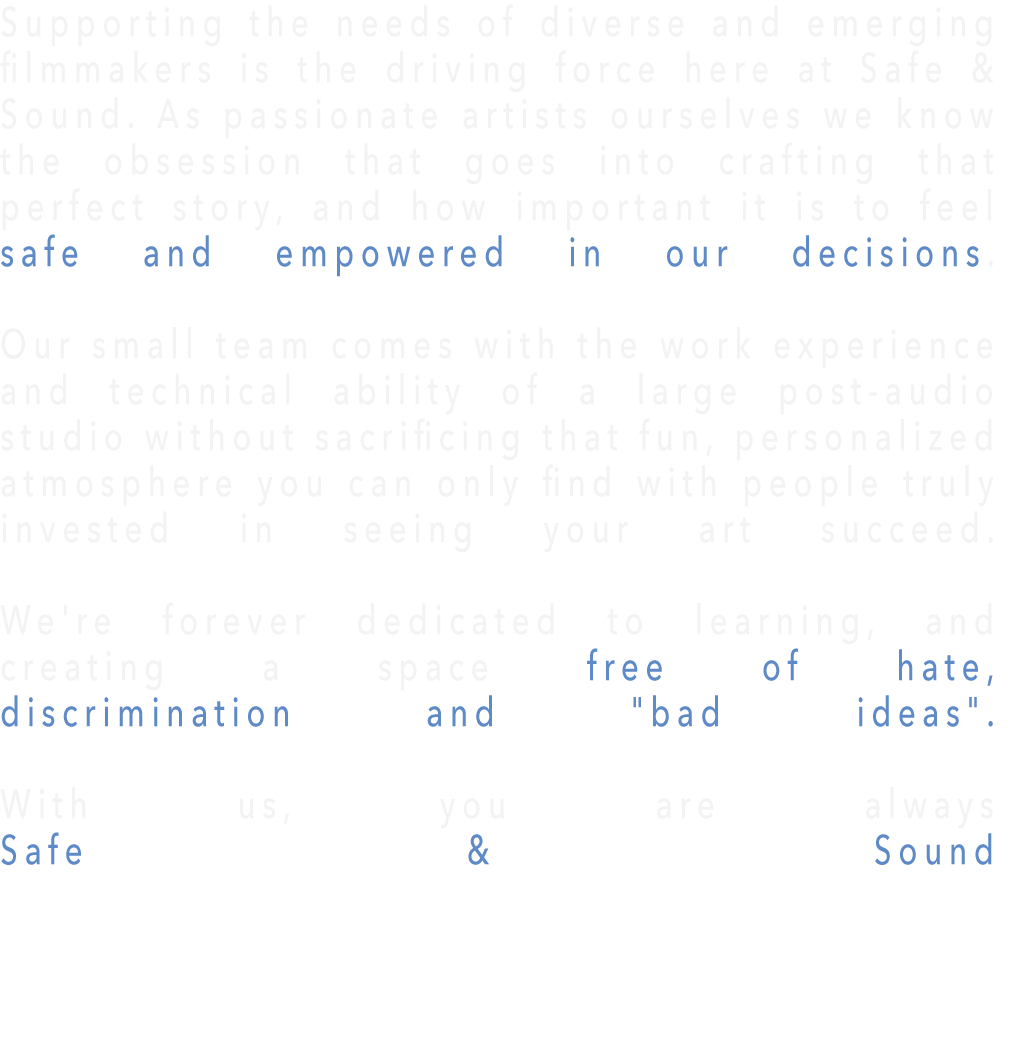
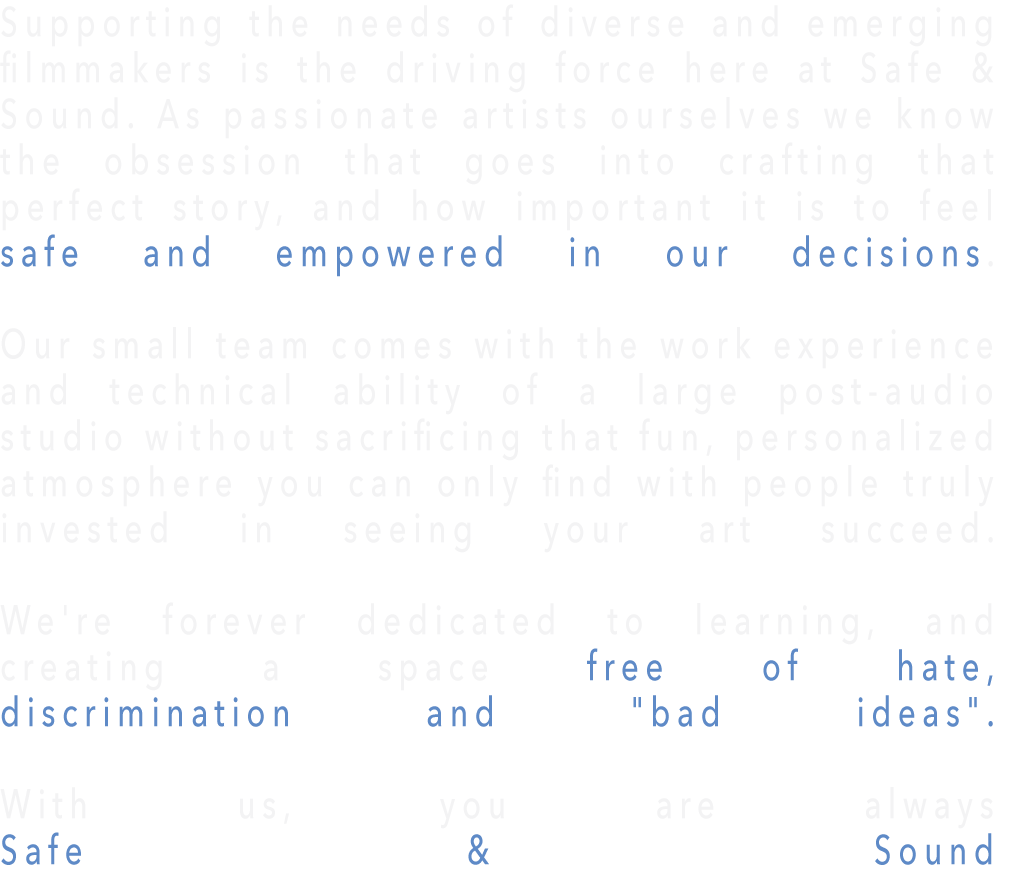
Improving Team column height

diff --git a/src/components/home/TheTeam.jsx b/src/components/home/TheTeam.jsx
@@ -24,16 +24,8 @@ export default function TheTeam() {
             const img = img_paths.find((x) => x.includes(project.pic));
             project.pic = img;
         });
-        setLeftColumn(
-            teamData
-                .filter((x) => x.column === 1)
-                .sort((a, b) => a.order - b.order),
-        );
-        setRightColumn(
-            teamData
-                .filter((x) => x.column === 2)
-                .sort((a, b) => a.order - b.order),
-        );
+        setLeftColumn(teamData.filter((x) => x.column === 1).sort((a, b) => a.order - b.order));
+        setRightColumn(teamData.filter((x) => x.column === 2).sort((a, b) => a.order - b.order));
     }, []);
 
     const onHeadshotClick = (_val) => {
@@ -42,27 +34,17 @@ export default function TheTeam() {
     };
 
     return (
-        <section
-            id="the-team"
-            className="flex w-full flex-col items-center justify-center gap-10 px-5 pt-10 pb-15 align-middle md:px-16 xl:px-5"
-        >
-            <h2 className="text-secondary w-full py-0 text-center text-4xl font-bold tracking-widest uppercase md:py-10">
-                who we are
-            </h2>
+        <section id="the-team" className="flex w-full flex-col items-center justify-center gap-10 px-5 pt-10 pb-15 align-middle md:px-16 xl:px-5">
+            <h2 className="text-secondary w-full py-0 text-center text-4xl font-bold tracking-widest uppercase md:py-10">who we are</h2>
 
             <dialog ref={modal} className="modal">
                 <TeamModal currentTeam={currentTeam} />
             </dialog>
 
-            <div className="flex w-full flex-col justify-center gap-5 lg:flex-row">
-                <div className="grid w-auto grow grid-flow-col gap-3 md:gap-2 lg:h-fit lg:max-w-[10%] lg:grid-flow-row lg:gap-2 xl:gap-5">
+            <div className="flex h-fit w-full flex-col justify-center gap-5 lg:flex-row">
+                <div className="grid w-auto grow grid-flow-col gap-3 md:gap-2 lg:max-w-[10%] lg:grid-flow-row lg:gap-2 xl:gap-5">
                     {leftColumn.map((val, index) => (
-                        <TeamHeadshot
-                            key={index}
-                            pic={val.pic}
-                            onClick={() => onHeadshotClick(val)}
-                            alt={val.name}
-                        />
+                        <TeamHeadshot key={index} pic={val.pic} onClick={() => onHeadshotClick(val)} alt={val.name} />
                     ))}
                 </div>
                 <div className="hidden h-fit w-full lg:block">
@@ -73,14 +55,9 @@ export default function TheTeam() {
                         alt="Supporting the needs of diverse and emerging filmmakers is the driving force here at Safe & Sound. AS passionate artists ourselves we know the obsession that goes into crafting that perfect story, and how important it is to feel safe and empowered in out decisions. Our small team comes with the work experience and technical ability of a large post-studio studio without sacrificint that fun, personalized atmosphere you can only find with people truly invested in seeing your art succeed. We're forever dedicated to learning and creating a space free of hate discrimination and 'bar ideas'. With us, you are always Safe & Sound."
                     />
                 </div>
-                <div className="grid w-auto grow grid-flow-col gap-3 md:gap-2 lg:h-fit lg:max-w-[10%] lg:grid-flow-row lg:gap-2 xl:gap-5">
+                <div className="grid w-auto grow grid-flow-col gap-3 md:gap-2 lg:max-w-[10%] lg:grid-flow-row lg:gap-2 xl:gap-5">
                     {rightColumn.map((val, index) => (
-                        <TeamHeadshot
-                            key={index}
-                            pic={val.pic}
-                            onClick={() => onHeadshotClick(val)}
-                            alt={val.name}
-                        />
+                        <TeamHeadshot key={index} pic={val.pic} onClick={() => onHeadshotClick(val)} alt={val.name} />
                     ))}
                 </div>
                 <div className="h-fit w-full shrink lg:hidden">
@@ -134,24 +111,14 @@ function TeamModal({ currentTeam }) {
             <div className="modal-box max-w-full bg-[#1a1a1a] select-none max-md:p-3 lg:max-w-6xl">
                 <div className="gap-3 px-3 py-3 md:gap-0 md:px-0 md:py-0">
                     <form method="dialog">
-                        <button
-                            className="btn btn-circle btn-ghost btn-sm md:btn-md absolute top-2 right-2"
-                            name="Close team card"
-                        >
-                            <IoClose
-                                className="size-3/4 md:size-3/4"
-                                strokeWidth={20}
-                            />
+                        <button className="btn btn-circle btn-ghost btn-sm md:btn-md absolute top-2 right-2" name="Close team card">
+                            <IoClose className="size-3/4 md:size-3/4" strokeWidth={20} />
                         </button>
                     </form>
                     <div className="flex flex-col items-center justify-center gap-2 align-middle md:gap-3">
                         <div className="w-full md:w-4/5">
-                            <h3 className="text-primary text-xl font-bold tracking-widest uppercase md:text-4xl">
-                                {name}
-                            </h3>
-                            <p className="text-secondary text-sm font-semibold tracking-widest uppercase md:text-xl">
-                                {role}
-                            </p>
+                            <h3 className="text-primary text-xl font-bold tracking-widest uppercase md:text-4xl">{name}</h3>
+                            <p className="text-secondary text-sm font-semibold tracking-widest uppercase md:text-xl">{role}</p>
                         </div>
                         <div className="flex w-full flex-col gap-5 text-xs font-semibold md:w-4/5 md:text-2xl">
                             <div className="flex w-full justify-between">
@@ -176,9 +143,7 @@ function TeamModal({ currentTeam }) {
                                         {!showActualFav && <p>{favFilm}</p>}
                                         {showActualFav && (
                                             <div className="inline-flex w-full">
-                                                <p>
-                                                    {currentTeam.actualFavFilm}
-                                                </p>
+                                                <p>{currentTeam.actualFavFilm}</p>
                                                 <img
                                                     className="float-start mx-5 aspect-square h-10 animate-bounce"
                                                     src="https://seeklogo.com/images/P/paw-patrol-logo-A0229DE2A9-seeklogo.com.png"
@@ -188,11 +153,7 @@ function TeamModal({ currentTeam }) {
                                         )}
                                     </span>
                                     {currentTeam.imdb && (
-                                        <a
-                                            className="link flex items-center justify-center gap-2"
-                                            href={currentTeam.imdb}
-                                            target="_blank"
-                                        >
+                                        <a className="link flex items-center justify-center gap-2" href={currentTeam.imdb} target="_blank">
                                             IMDB
                                             <HiExternalLink />
                                         </a>